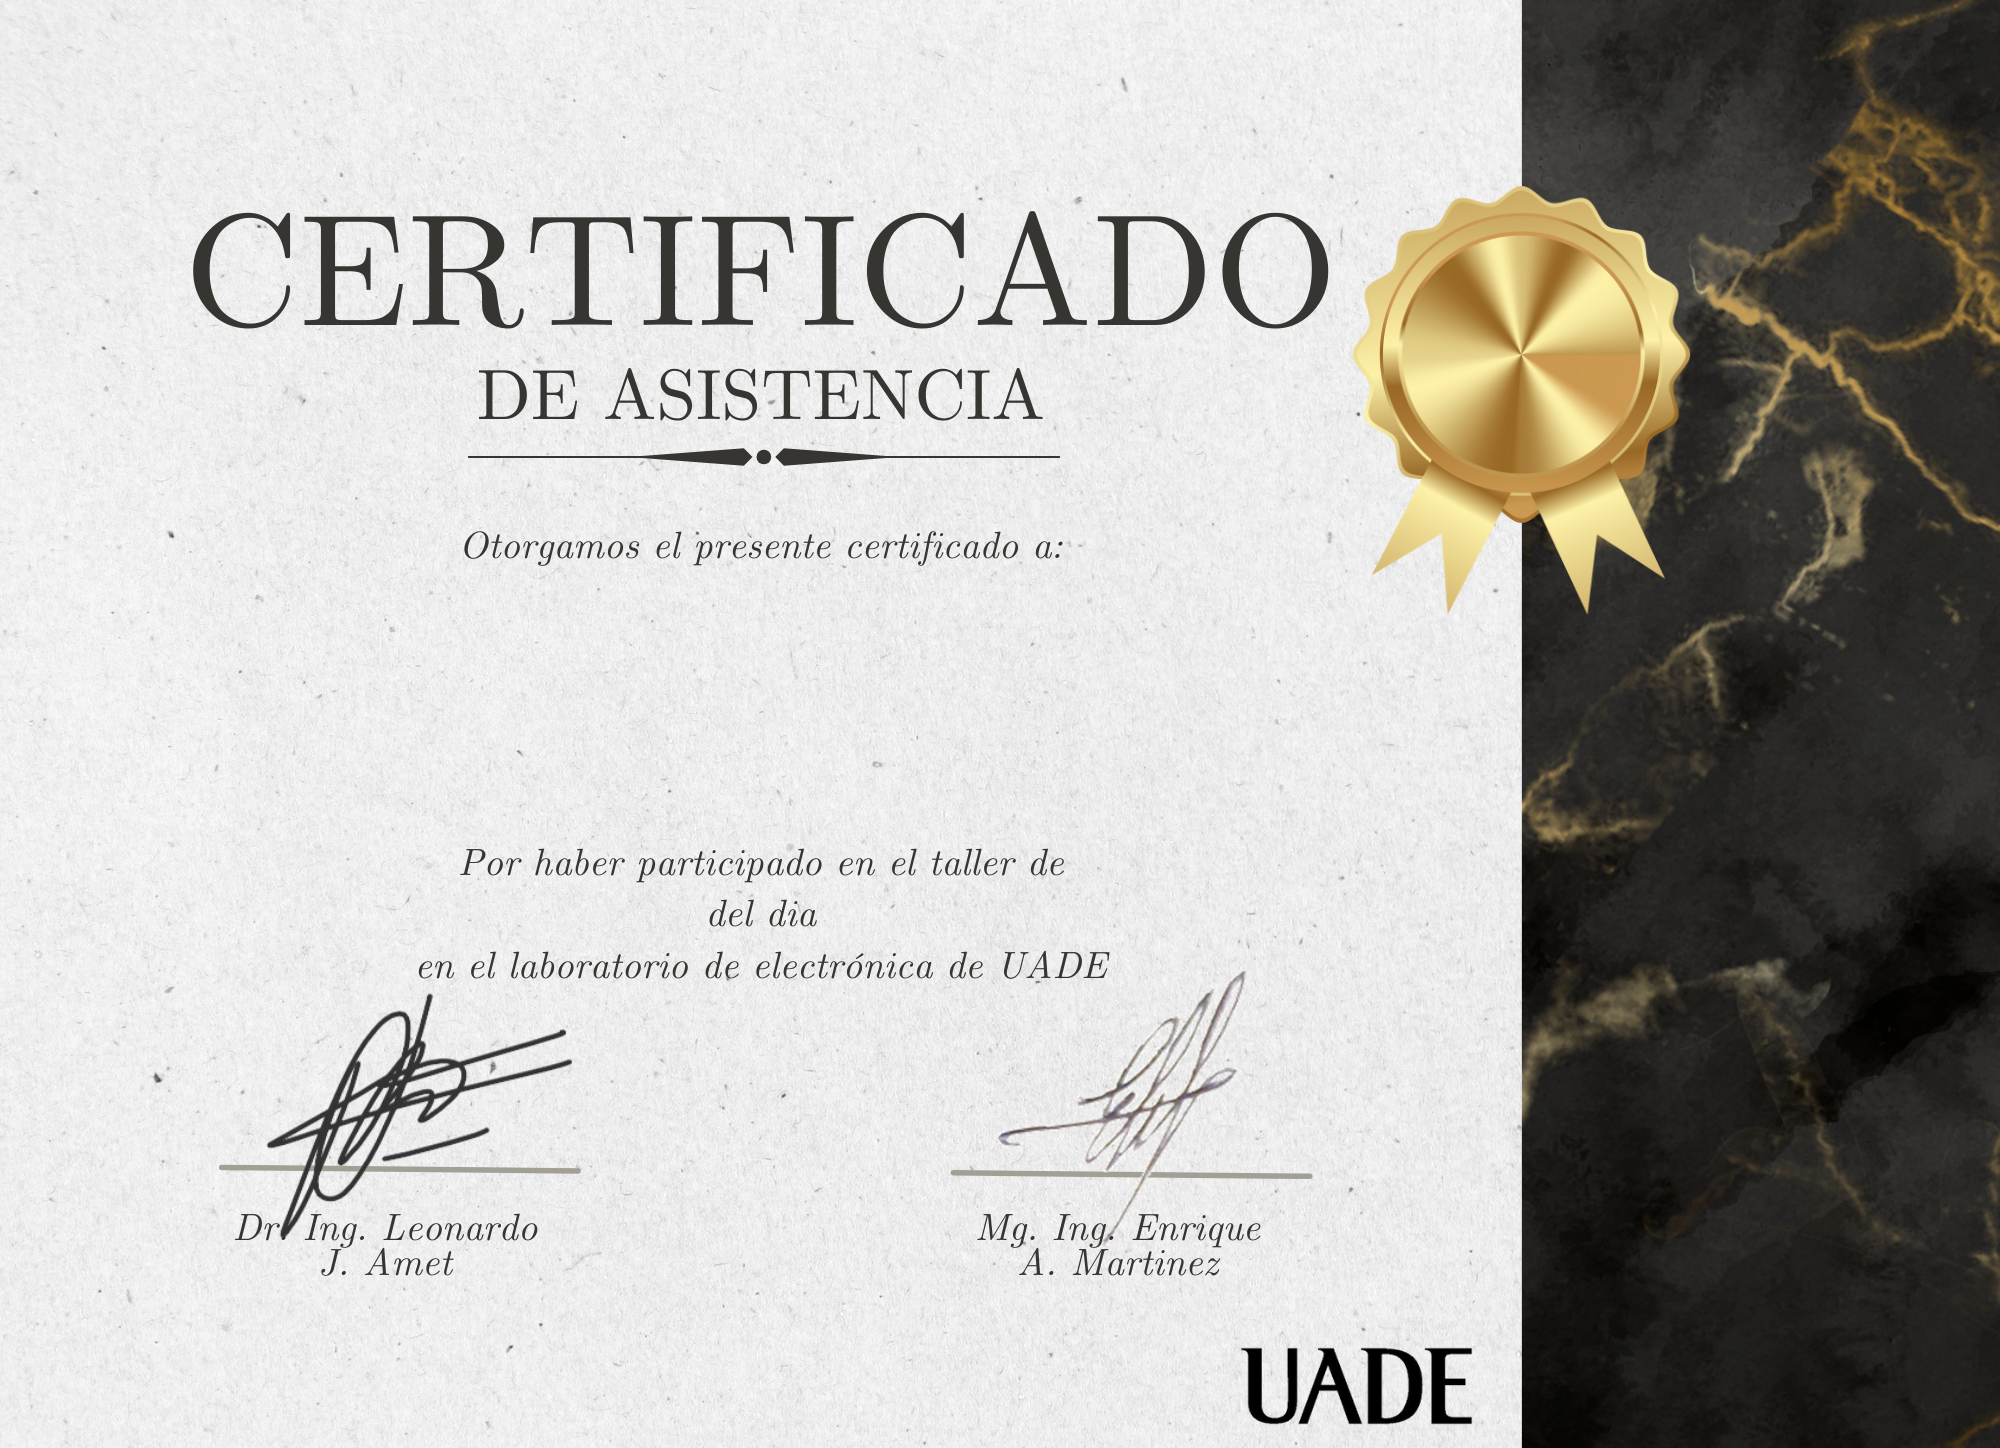
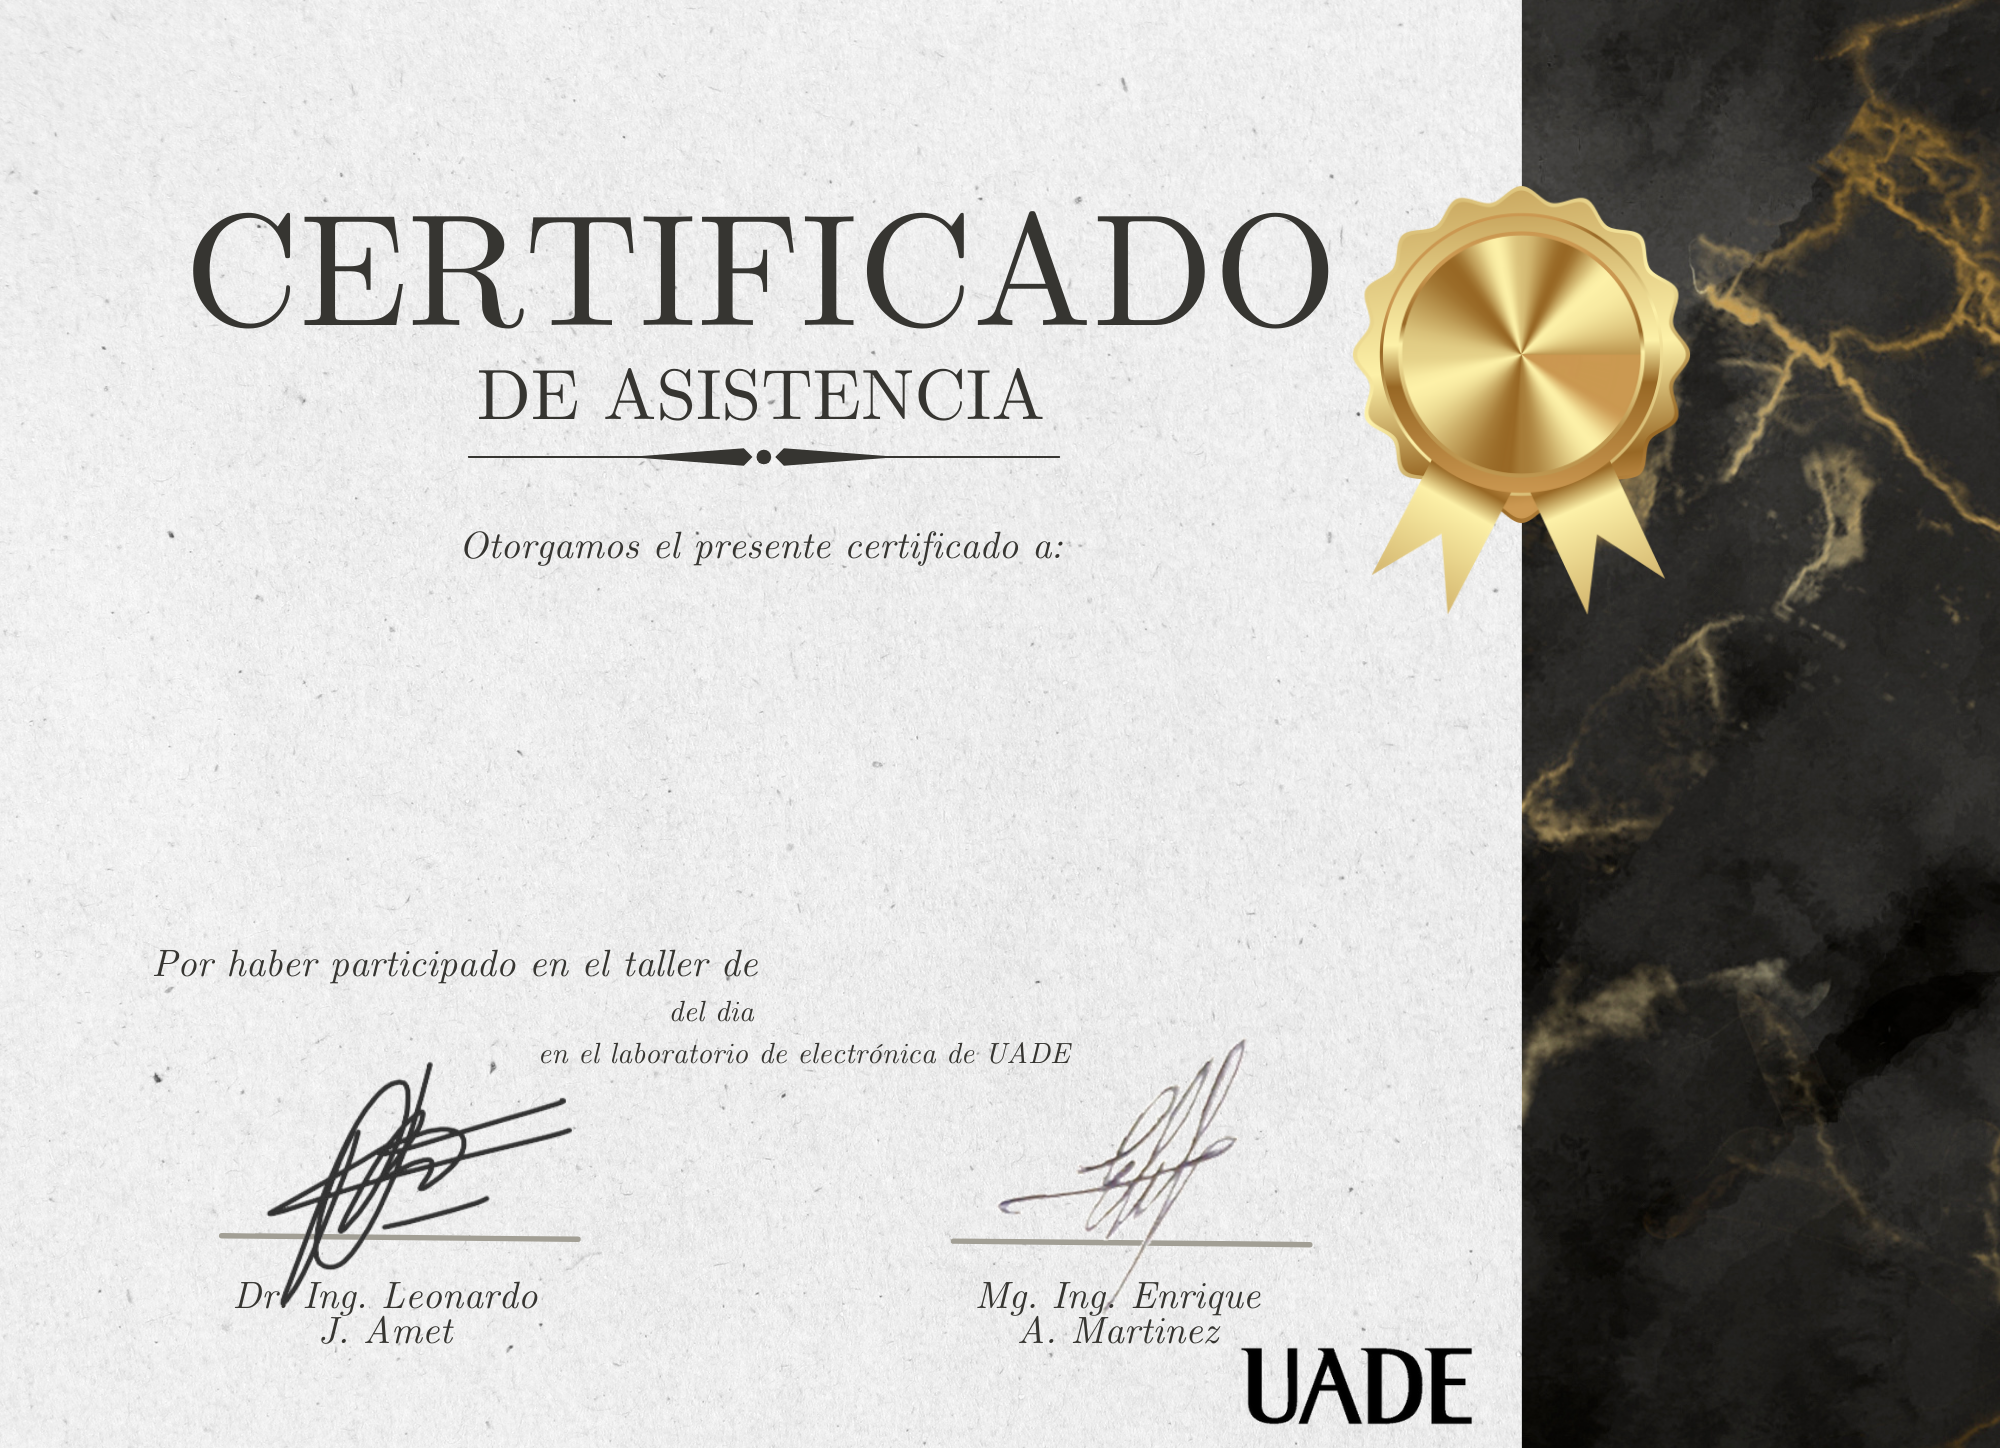
cambio en app

diff --git a/app.py b/app.py
@@ -187,19 +187,17 @@ def parametrosDiplomas(draw, titulo, fuente, nombre, texto, dia, horario, ubicac
     posicion_cara = (1000, 150)  # Cambia la posición de la imagen de la cara
     escala_cara = 0.4  # Cambia la escala de la imagen de la cara
     escala_texto = 5  # Cambia la escala del texto
-    print("este formato es de historia")
-
-    pos_y = separarTitulo(titulo)
+    print("este formato es de diploma")
 
     titulo_wrapped = textwrap.fill(
-        titulo, width=20, break_long_words=False, replace_whitespace=False)
-    draw.text((1080, 845), titulo_wrapped, font=ImageFont.truetype(
+        titulo, width=35, break_long_words=False, replace_whitespace=False)
+    draw.text((775, 925), titulo_wrapped, font=ImageFont.truetype(
         fuente, int(7 * escala_texto)), fill="black")
 
     nombre_wrapped = textwrap.fill(
-        nombre, width=30, break_long_words=False, replace_whitespace=False)
-    draw.text((200, 600), nombre_wrapped, font=ImageFont.truetype(
-        fuente, int(30 * escala_texto)), fill="black")
+        nombre, width=15, break_long_words=False, replace_whitespace=False)
+    draw.text((300, 600), nombre_wrapped, font=ImageFont.truetype(
+        fuente, int(25 * escala_texto)), fill="black")
 
     texto_wrapped = textwrap.fill(
         texto, width=19, break_long_words=False, replace_whitespace=False)
@@ -208,7 +206,7 @@ def parametrosDiplomas(draw, titulo, fuente, nombre, texto, dia, horario, ubicac
 
     dia_wrapped = textwrap.fill(
         dia, width=20, break_long_words=False, replace_whitespace=False)
-    draw.text((825, 895), dia_wrapped, font=ImageFont.truetype(
+    draw.text((770, 995), dia_wrapped, font=ImageFont.truetype(
         fuente, int(7 * escala_texto)), fill="black")
 
     horario_wrapped = textwrap.fill(
@@ -255,7 +253,7 @@ def imagenCara(escala_cara, posicion_cara, fondo, cara):
 def agregar_texto_a_foto(titulo: str, nombre: str, imagen_cara, texto, dia, horario, ubicacion, tipo, salida_path, formato):
     if formato == 'historia':
         fuente = "arial.ttf"
-        fondo_path = os.path.join("fondoHistoria.jpg")
+        fondo_path = os.path.join("fondos/fondoHistoria.jpg")
         fondo = Image.open(fondo_path)
         draw = ImageDraw.Draw(fondo)
         fondo_path, posicion_cara, escala_cara = parametros_historia(
@@ -264,7 +262,7 @@ def agregar_texto_a_foto(titulo: str, nombre: str, imagen_cara, texto, dia, hora
 
     elif formato == 'post':
         fuente = "arial.ttf"
-        fondo_path = os.path.join("fondoFeed.png")
+        fondo_path = os.path.join("fondos/fondoFeed.png")
         fondo = Image.open(fondo_path)
         draw = ImageDraw.Draw(fondo)
 
@@ -274,7 +272,7 @@ def agregar_texto_a_foto(titulo: str, nombre: str, imagen_cara, texto, dia, hora
 
     elif formato == 'diploma':
         fuente = "cmunvi.ttf"
-        fondo_path = os.path.join("Diploma.png")
+        fondo_path = os.path.join("fondos/Diploma.png")
         fondo = Image.open(fondo_path)
         draw = ImageDraw.Draw(fondo)
 
